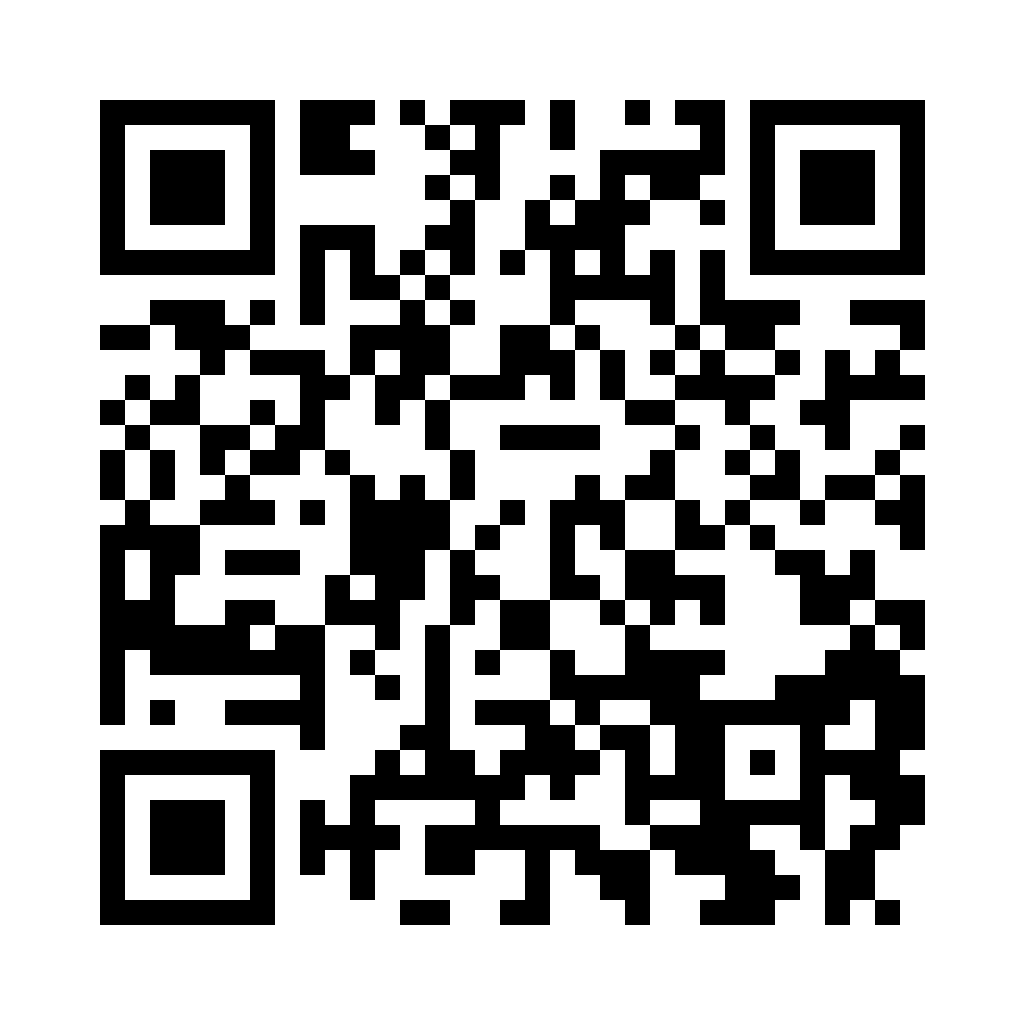
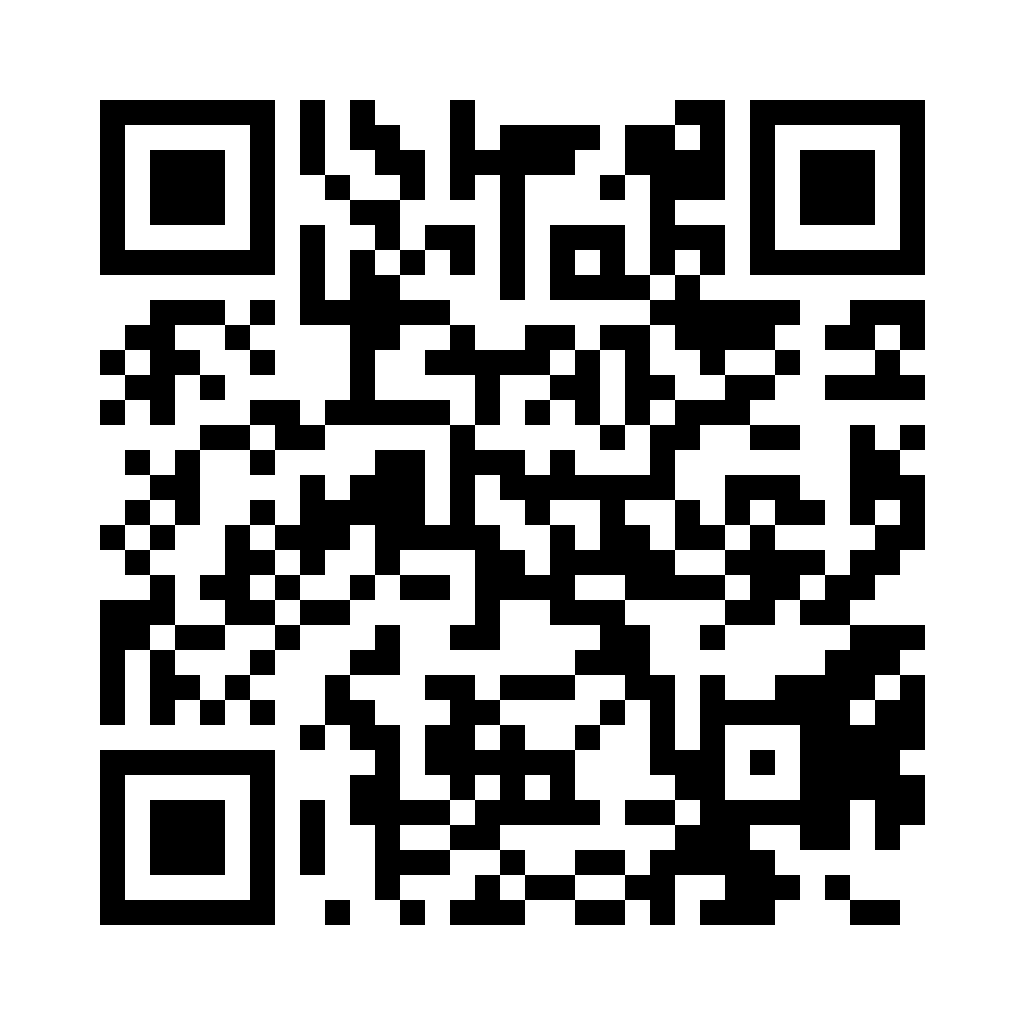
Docs: QR a sayso-mu.vercel.app y checklist de publicación final
docs/publicar.md: pasos para publicar la versión final (solo cuando Diego lo
diga): variables sin modo prueba, sin conexión a GitHub, publicar desde una
copia limpia de main y prueba rápida en el celular.

Changed region(s): [[0.0938, 0.0938, 0.9062, 0.9062]]

diff --git a/docs/publicar.md b/docs/publicar.md
@@ -1,0 +1,39 @@
+# Publicar la versión final (Iaio)
+
+> **Correr SOLO cuando Diego diga "publicamos la versión final".** Antes de eso no se publica.
+
+URL de la demo: **https://sayso-mu.vercel.app** (proyecto de Vercel de Iaio, `sayso6/sayso`). Se publica solo a mano: máximo unas 5 veces por día.
+
+## Checklist
+
+1. **Traer main:** `git pull origin main` y `npm install`.
+
+2. **Variables de entorno del proyecto de Vercel (production):**
+   - `NEXT_PUBLIC_DATOS` **no tiene que existir**. Si está, borrarla (`vercel env rm NEXT_PUBLIC_DATOS production`): con ella la app muestra datos de ejemplo y no sirve para la entrega.
+   - `IA_APAGADA` **no tiene que existir**.
+   - Tienen que estar:
+     - `ANTHROPIC_API_KEY`: la del equipo, la más nueva.
+     - `NEXT_PUBLIC_SUPABASE_URL`: `https://gcuqeojcsiotwqtywmbo.supabase.co`.
+     - `NEXT_PUBLIC_SUPABASE_ANON_KEY`: empieza con `sb_publishable_`.
+     - `SUPABASE_SERVICE_ROLE_KEY`: empieza con `sb_secret_` (la rotada).
+     - `ELEVENLABS_API_KEY`.
+     - `IA_LIMITE_USD_DIA=5`.
+   - Cómo revisarlas sin mostrar valores: `vercel env ls production` para los nombres. Para el formato, `vercel env pull <archivo temporal> --environment=production`, revisar solo el prefijo o si coincide con `.env.local`, y **borrar el archivo enseguida**.
+   - Si hay que subir una clave: ponerla en `.env.local` y subirla con un comando que la lea del archivo (`grep … | vercel env add NOMBRE production --force`). **Nunca** a través del portapapeles mientras se copia el comando (así se cargó una vez el texto del comando en lugar de la clave).
+
+3. **El proyecto NO está conectado a GitHub** (Settings → Git). Comprobar con `vercel git disconnect --yes`: tiene que decir *"No Git repository connected"*. Si estaba conectado, eso mismo lo desconecta.
+
+4. **Publicar** desde una copia limpia de `main`, para que no se suba nada que no esté en main ni el `.env.local`:
+   ```
+   git fetch origin
+   git worktree add --detach <carpeta temporal> origin/main
+   cp .vercel/project.json <carpeta temporal>/.vercel/
+   cd <carpeta temporal> && npx vercel --prod --yes
+   git worktree remove --force <carpeta temporal>
+   ```
+   Pasarle la URL a Diego.
+
+5. **Prueba rápida en el celular:**
+   - Abrir https://sayso-mu.vercel.app en Safari o Chrome (no dentro de WhatsApp).
+   - `/lab/visor` y `/lab/guia` tienen que dar **404** (prueba de que no hay modo de prueba activo).
+   - La pantalla 1 tiene que responder con **IA real**: con *"mi notebook se apaga sola"* dice *"Entendí: es una notebook…"*, no *"No pude identificar el equipo"*.

diff --git a/docs/demo-y-pruebas.md b/docs/demo-y-pruebas.md
@@ -20,9 +20,9 @@ Para ensayar el flujo completo y medir los controles de calidad del plan (§9). 
 
 **Plan B:** si falla el micrófono, se escribe (el campo siempre está). Si falla internet, video de respaldo (grabar en la hora 13) y un caso ya guardado en Supabase.
 
-**QR al link de producción:** `docs/qr-demo.png` (para imprimir o proyectar) y `docs/qr-demo.svg` (para la presentación, escala sin perder calidad). Apunta a https://sayso-smoky.vercel.app. Probarlo con la cámara de un iPhone y de un Android antes de imprimir.
+**QR al link de producción:** `docs/qr-demo.png` (para imprimir o proyectar) y `docs/qr-demo.svg` (para la presentación, escala sin perder calidad). Apunta a https://sayso-mu.vercel.app. Probarlo con la cámara de un iPhone y de un Android antes de imprimir.
 
-**Antes de la demo:** pasar los 3 equipos de prueba una vez para que el manual quede en caché; probar en el celular desde https://sayso-smoky.vercel.app en Safari o Chrome (no dentro de WhatsApp); volumen alto; cargador.
+**Antes de la demo:** pasar los 3 equipos de prueba una vez para que el manual quede en caché; probar en el celular desde https://sayso-mu.vercel.app en Safari o Chrome (no dentro de WhatsApp); volumen alto; cargador.
 
 ## Equipos de prueba
 
